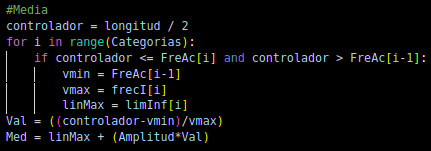
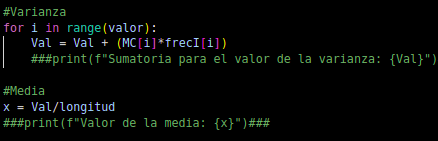
MODIFICACION

Changed region(s): [[0.0, 0.1418, 1.0, 0.9645], [0.0, 0.0284, 0.1508, 0.1135], [0.0, 0.3404, 0.0302, 0.4823]]

diff --git a/Python/Agrupados.py b/Python/Agrupados.py
@@ -131,8 +131,10 @@ for i in range(valor):
     Val = Val + (MC[i]*frecI[i])
     ###print(f"Sumatoria para el valor de la varianza: {Val}")###
 
+#Media
 x = Val/longitud
-###print(f"Valor para la varianza: {x}")###
+###print(f"Valor de la media: {x}")###
+
 for i in range(valor):
     VzaAc = VzaAc + ((MC[i]-x)*(MC[i]-x))*frecI[i]
 ###print(f"Sumatoria para la varianza {VzaAc}")###    
@@ -182,7 +184,7 @@ Val = ((xmax-Vmin)/((xmax-Vmin)+(xmax-Vmax)))
 Mod = linMax + (Amplitud*Val)
 ###print(f"La moda es: {Mod}")###
 
-#Media
+#Mediana
 controlador = longitud / 2
 for i in range(Categorias):
     if controlador <= FreAc[i] and controlador > FreAc[i-1]:

diff --git a/Python/README.md b/Python/README.md
@@ -1,9 +1,4 @@
 <center>
-<head>
-    <title>
-    Agrupados.py
-    </title>
-<head>
 <h1>Agrupados.py<h1>
 </center>
 
@@ -25,7 +20,7 @@
 
 ![IMAGEN](/MEDIA.png)
 <br>
-<h3><div align = "left">Para cumplir el código se hizo el siguiente algoritmo, donde el rango de las categorías se sacó del apartado de la regla de Sturges</div></h3>
+<h3><div align = "left">En esta parte del códio se hizo apoyo del códogo de la sumatoria para la varianza, donde posteriormente se hizo la división por el total de números representado por la variable "longitud".</div></h3>
 <br>
 
 ![IMAGEN](/CODIGO%20MEDIA.png)
@@ -34,9 +29,57 @@
 <h2>MEDIANA</h2>
 
 ![IMAGEN](/MEDIANA.png)
+<br>
+<h3><div align = "left">Para cumplir la fórmula se hizo el siguiente algoritmo, donde el rango de las categorías se sacó del apartado de la regla de Sturges.</div></h3>
+
+![IMAGEN](/CODIGO%20MEDIANA.png)
 
 <br>
 <h2>MODA</h2>
 
 ![IMAGEN](/MODA.png)
+<br>
+<h3><div align = "left">Esta fórmula es un poco más dificil que las anteriores, pues se debe obtener el límite inferior, número anterior a la frecuencia absoluta más alta y también el número que le sigue. Para resolver este problema se diseñó un algoritmo capaz de hacer la búsqueda de manera automática.</div></h3>
+<br>
+<h1>Medidas de dispersión</h1>
+<br>
+<h2>Varianza</h2>
+
+![IMAGEN](/VARIANZA.png)
+
+<br>
+
+<h2>|</h2>
+
+![IMAGEN](/)
+<br>
+<h3><div align = "left">.</div></h3>
+<br>
+<h2>Coeficiente de variación</h2>
+<br>
+
+![IMAGEN](/COEFICIENTE%20DE%20VARIACI%C3%93N.png)
+
+<br>
+
+<h2>|</h2>
+
+![IMAGEN](/)
+<br>
+<h3><div align = "left">.</div></h3>
+<br>
+<h2>Deviación estándar</h2>
+<br>
+
+![IMAGEN](/DESVIACI%C3%93N%20EST%C3%81NDAR.png)
+
+<br>
+
+<h2>|</h2>
+
+![IMAGEN](/)
+<br>
+<h3><div align = "left">.</div></h3>
+<br>
+
 </center>
